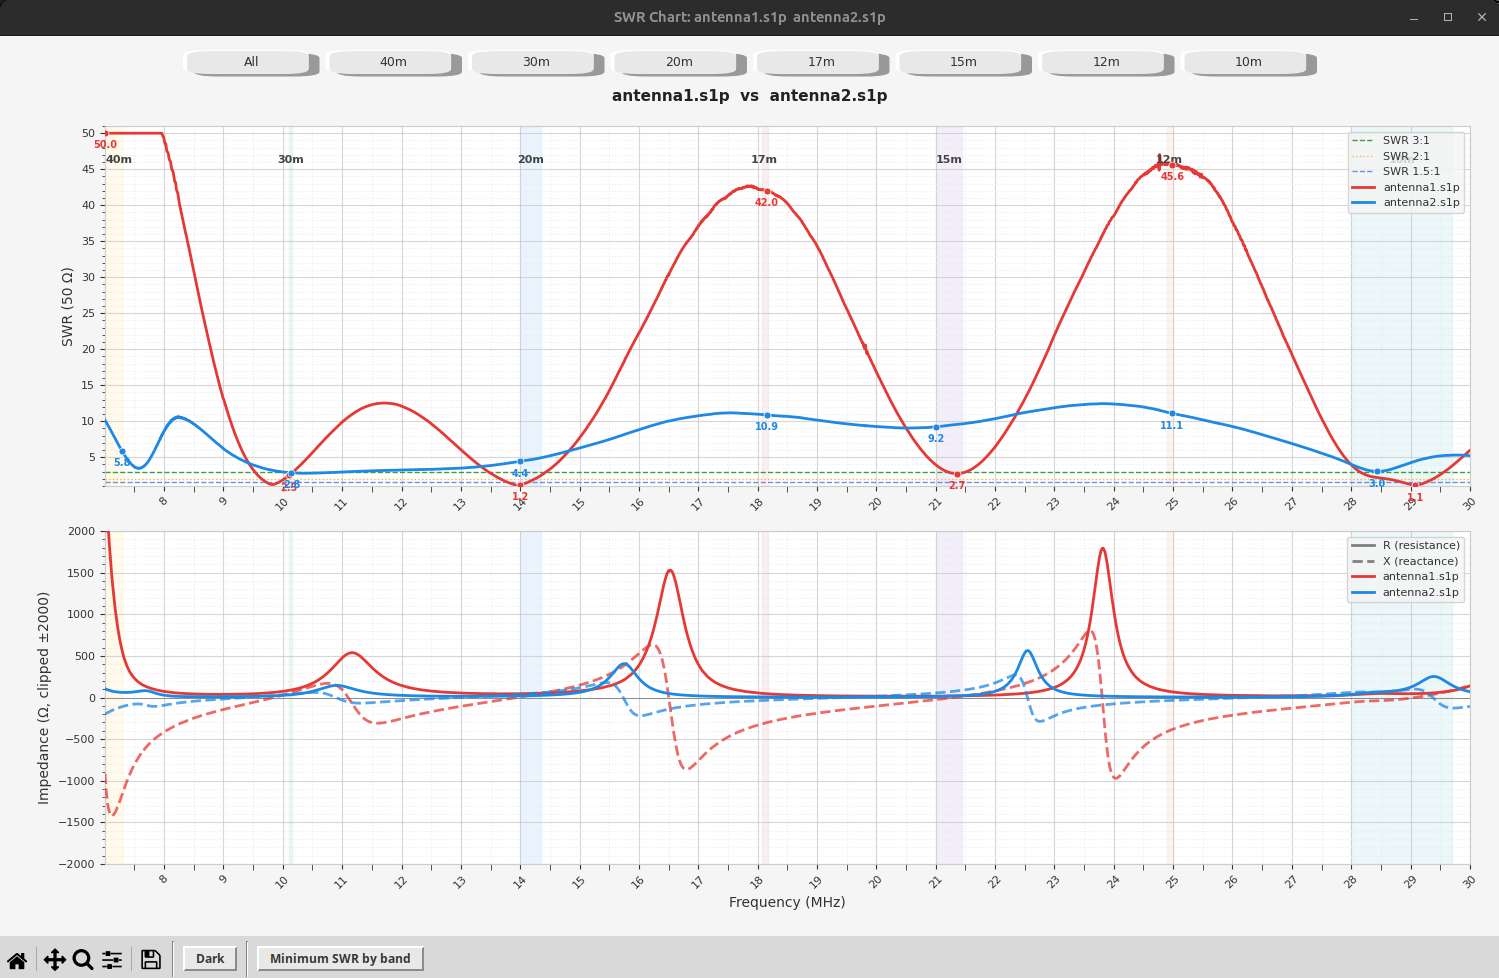
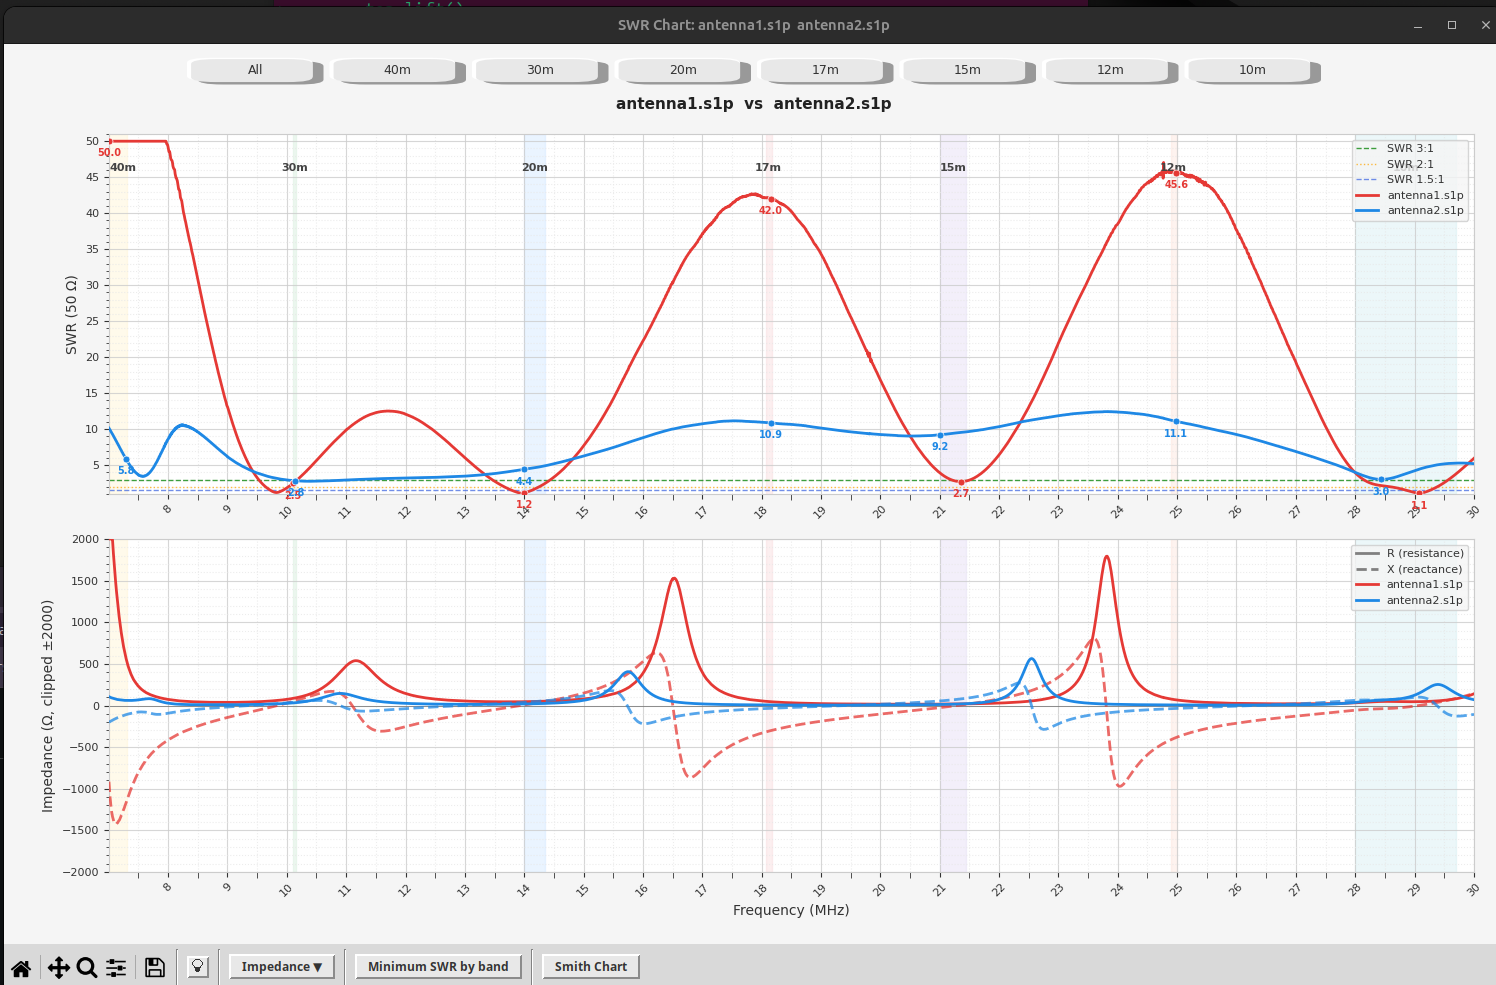
Added popup Smith charts Added impedance panel toggle Restructured tool bar Added tooltips on main view buttons

diff --git a/README.md b/README.md
@@ -18,7 +18,9 @@ Load one or more files and explore SWR and impedance across all HF and VHF/UHF h
 - **Scroll-wheel zoom** — zoom in/out on the frequency axis, centered on the cursor position
 - **Adaptive tick marks** — both X and Y tick spacing automatically adjust as you zoom in or out, so there are always readable numbers at any zoom level
 - **Min SWR popup** — a table comparing the best SWR in every band across all loaded files, with the winner in each band highlighted and marked with a blue ★
-- **Dark / Light theme toggle** — switch between a dark and light colour theme at any time using the button in the toolbar
+- **Smith Chart popup** — open a Smith Chart for the currently visible frequency range; multiple windows can be open simultaneously
+- **Impedance panel toggle** — hide the lower impedance panel so the SWR plot expands to fill the window; click again to restore it
+- **Dark / Light theme toggle** — switch between a dark and light colour theme at any time using the light-bulb icon in the toolbar
 - **Save figure** — the standard toolbar Save button saves to the current directory (not home)
 
 ---
@@ -59,7 +61,7 @@ python3 swr_explore.py config_a.s1p config_b.s1p config_c.s1p
 ![Annotated window layout](docs/window_layout_annotated.png)
 
 The title bar shows the names of all loaded files separated by `vs`.
-Numbered callouts in the image correspond to the key at the bottom of the image
+Numbered callouts (1–15) in the image correspond to the key at the bottom of the image
 and are described in detail in the sections below.
 
 ---
@@ -69,7 +71,6 @@ and are described in detail in the sections below.
 - **All** — zooms out to show all bands included in any .s1p file
 - **40m … 10m** — zooms to that band with padding on each side; buttons only appear for bands that have data
 - Any band button also **auto-scales both Y axes** to fit the actual data within that frequency range, so weak features are not hidden by the full-range scale
-- **Min SWR** (bold blue) — opens the [Min SWR popup](#the-min-swr-popup)
 
 ---
 
@@ -134,7 +135,7 @@ The toolbar **Home button** (⌂) clears all pins and resets the zoom simultaneo
 
 ## The Min SWR Popup
 
-Click **Min SWR** in the button row to open a comparison table:
+Click **Minimum SWR by band** in the toolbar to open a comparison table:
 ![Min SWR popup](docs/min_swr.png)
 
 - Each row is one ham band; each column is one loaded file
@@ -142,16 +143,45 @@ Click **Min SWR** in the button row to open a comparison table:
 - Each cell shows the minimum SWR and the frequency where it occurs
 - The cell with the **lowest SWR in each row** is highlighted green with a blue ★ to the right of the value
 - The popup matches the current dark or light theme
-- Clicking **Min SWR** again closes the old window and opens a fresh one
+- Clicking **Minimum SWR by band** again closes the old window and opens a fresh one
+
+---
+
+## The Smith Chart Popup
+
+Click **Smith Chart** in the toolbar to open a Smith Chart for the currently visible frequency range.
+
+![Smith Chart popup](docs/smith_chart.png)
+
+- The chart shows the antenna impedance trace plotted as a reflection coefficient (Γ) on the standard normalised Smith Chart grid
+- One trace is drawn per loaded file, in the same colours used in the main plots
+- A **circle (●)** marks the lowest frequency in the visible range; a **square (■)** marks the highest
+- The frequency range captured is shown below the chart
+- Grid lines show constant-resistance circles (labelled 0.2, 0.5, 1, 2, 5) and constant-reactance arcs (labelled ±j0.2 through ±j5)
+- **0** (left edge) = short circuit; **∞** (right edge) = open circuit; centre = perfect 50 Ω match
+- **Hover tooltip** — move the mouse over the chart to see the frequency, SWR, and impedance (R + jX) at the nearest point on any trace
+- Clicking **Smith Chart** again opens a **second independent window** — the previous one stays open. Each window captures the zoom level at the moment it was opened, so you can compare the same antenna across different frequency ranges side by side
+
+### Reading the chart
+
+| Position | What it means |
+|---|---|
+| Near the centre | Impedance close to 50 Ω — excellent match, low SWR |
+| Near the outer rim | High SWR — large mismatch |
+| Right half (positive X arc side) | Inductive reactance |
+| Left half (negative X arc side) | Capacitive reactance |
+| Crossing the real axis | Resonance — reactance passes through zero |
+| Tight cluster | Narrow frequency range, impedance barely changing |
+| Large loop | Wide impedance swing across the frequency range |
 
 ---
 
 ## Dark / Light Theme
 
-Click the **Dark** or **Light** button in the toolbar (next to the Save button) to toggle the colour theme at any time. The label shows what clicking it will switch *to*:
+Click the **light-bulb icon** in the toolbar (immediately after the Save button) to toggle the colour theme at any time:
 
-- **Dark** — switch to the dark theme (dark grey backgrounds, vibrant curves, deep band shading)
-- **Light** — switch back to the light theme (white backgrounds, pastel band shading)
+- **Unlit bulb (outline)** — currently in light theme; click to switch to dark
+- **Lit bulb (filled)** — currently in dark theme; click to switch to light
 
 Everything updates instantly — plots, buttons, legends, tooltips, and the Min SWR popup all reflect the active theme.
 
@@ -168,8 +198,11 @@ Everything updates instantly — plots, buttons, legends, tooltips, and the Min 
 | **Toolbar ✛ (Pan)** | Click and drag to pan |
 | **Toolbar 🔍 (Zoom)** | Rectangle zoom (drag to select) |
 | **Toolbar ⌂ (Home)** | Reset zoom and clear all pinned tooltips |
-| **Toolbar 💾 (Save)** | Save figure to the current directory |
-| **Toolbar Dark/Light** | Toggle colour theme |
+| **Toolbar 💾 (Save)** | Save figure to the current directory; default filename is built from the loaded file names |
+| **Toolbar 💡 (bulb icon)** | Toggle colour theme between light and dark |
+| **Toolbar Impedance ▼/▲** | Hide or show the lower impedance panel; the SWR plot expands to fill when hidden |
+| **Toolbar Minimum SWR by band** | Open the per-band minimum SWR comparison table |
+| **Toolbar Smith Chart** | Open a Smith Chart for the visible frequency range |
 
 Tick marks on both axes adapt automatically as you zoom — major and minor ticks
 become finer when zoomed in and coarser when zoomed out, so there are always
